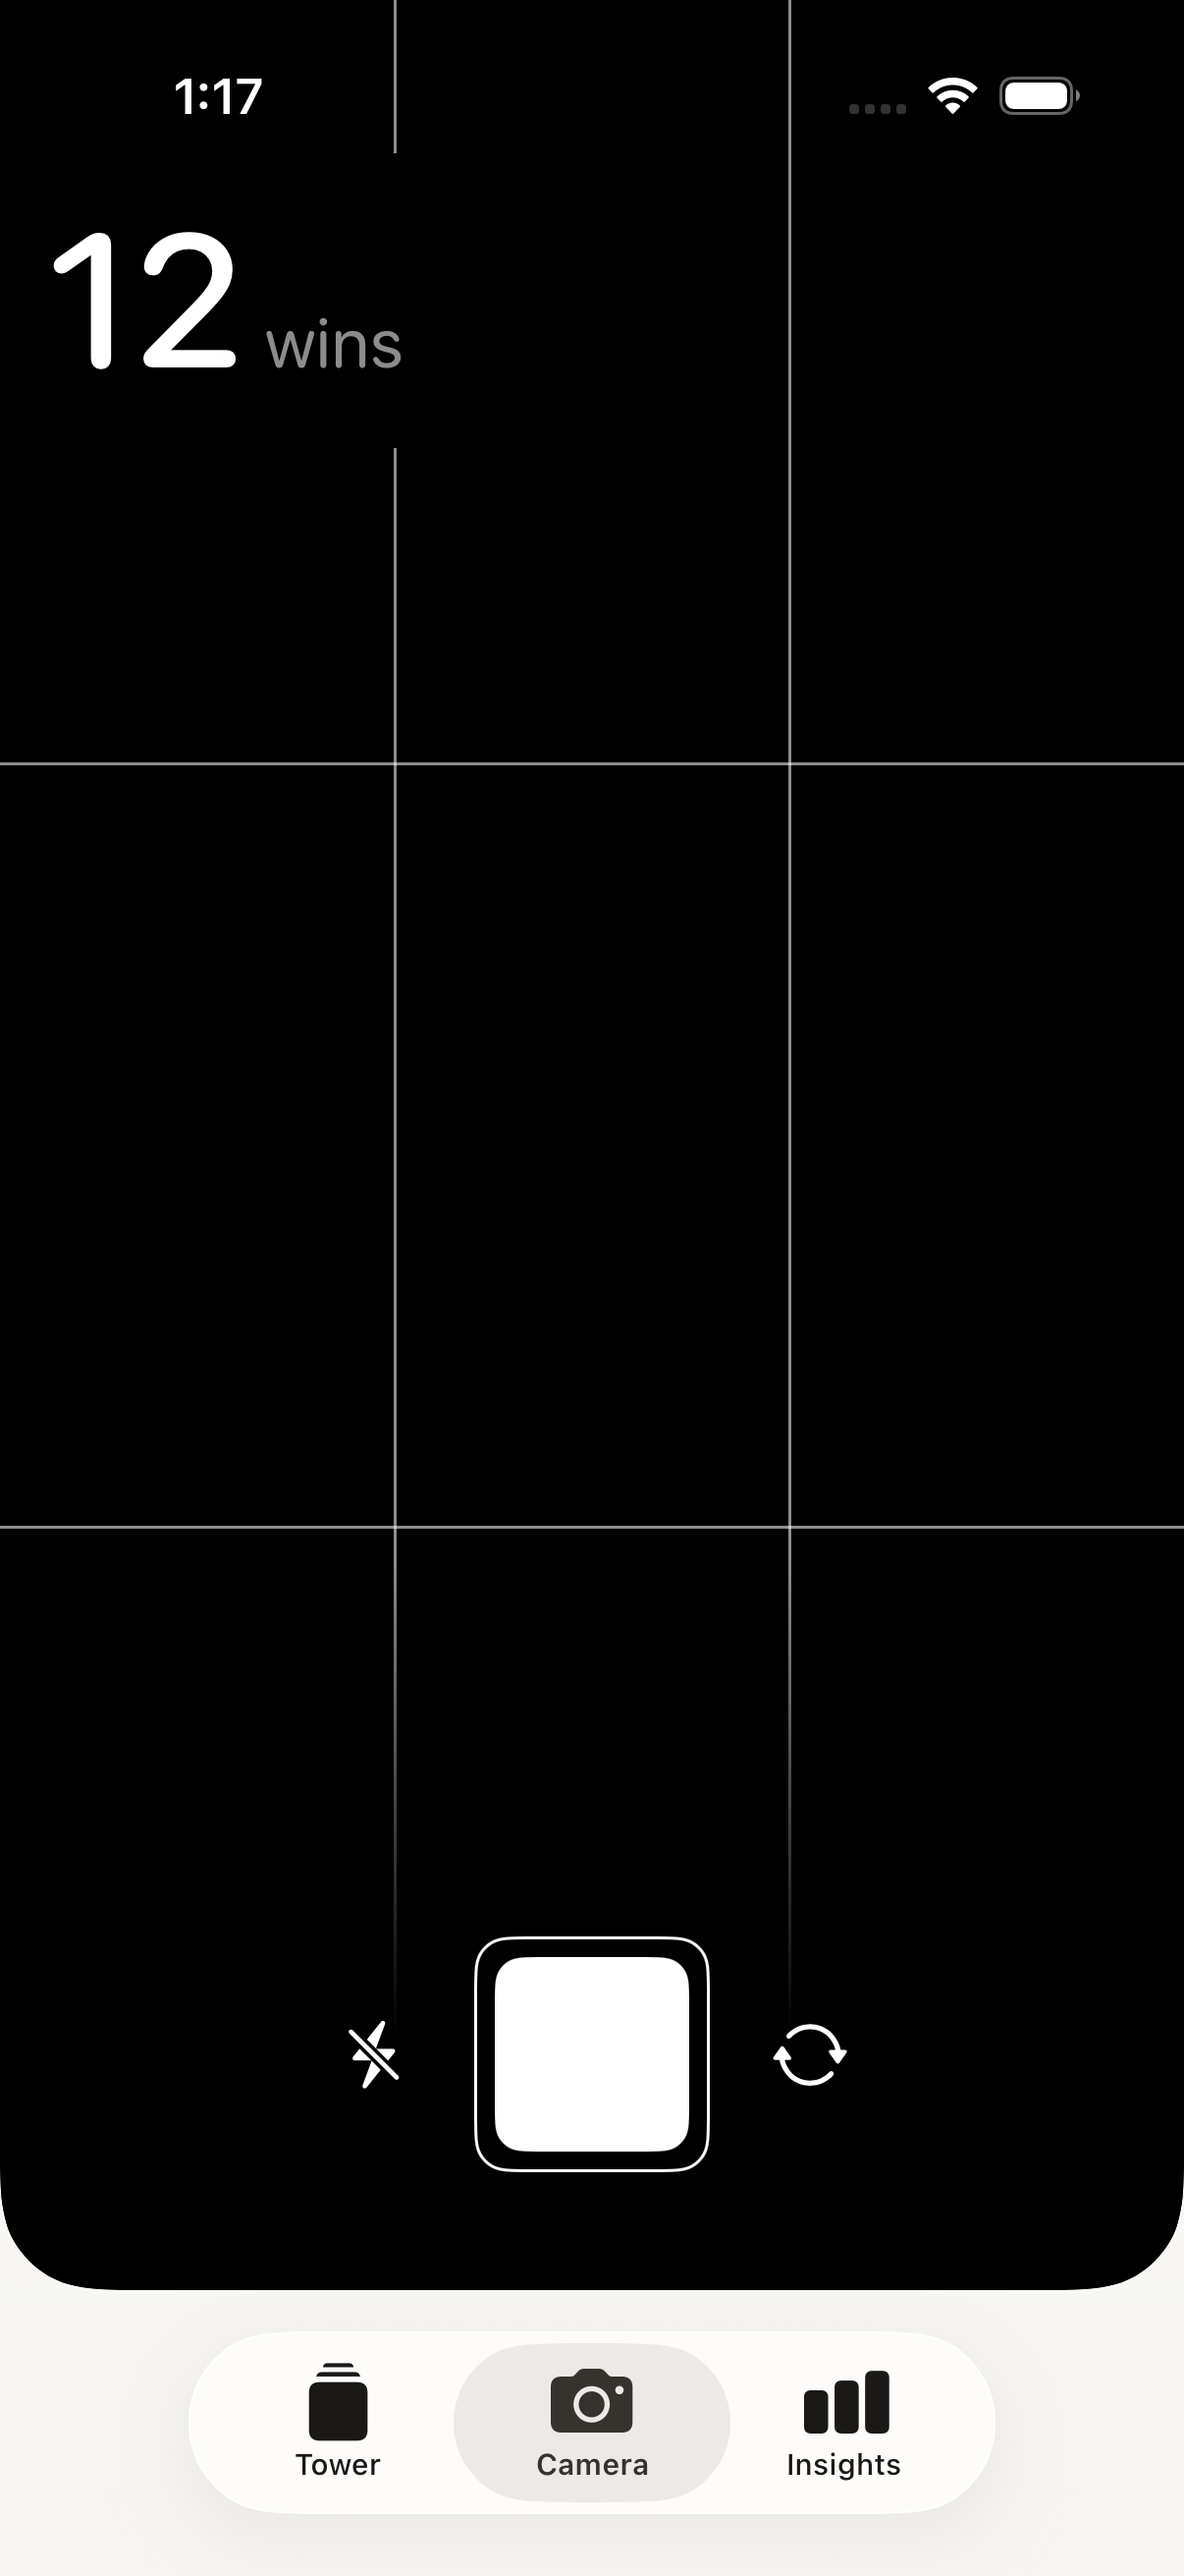
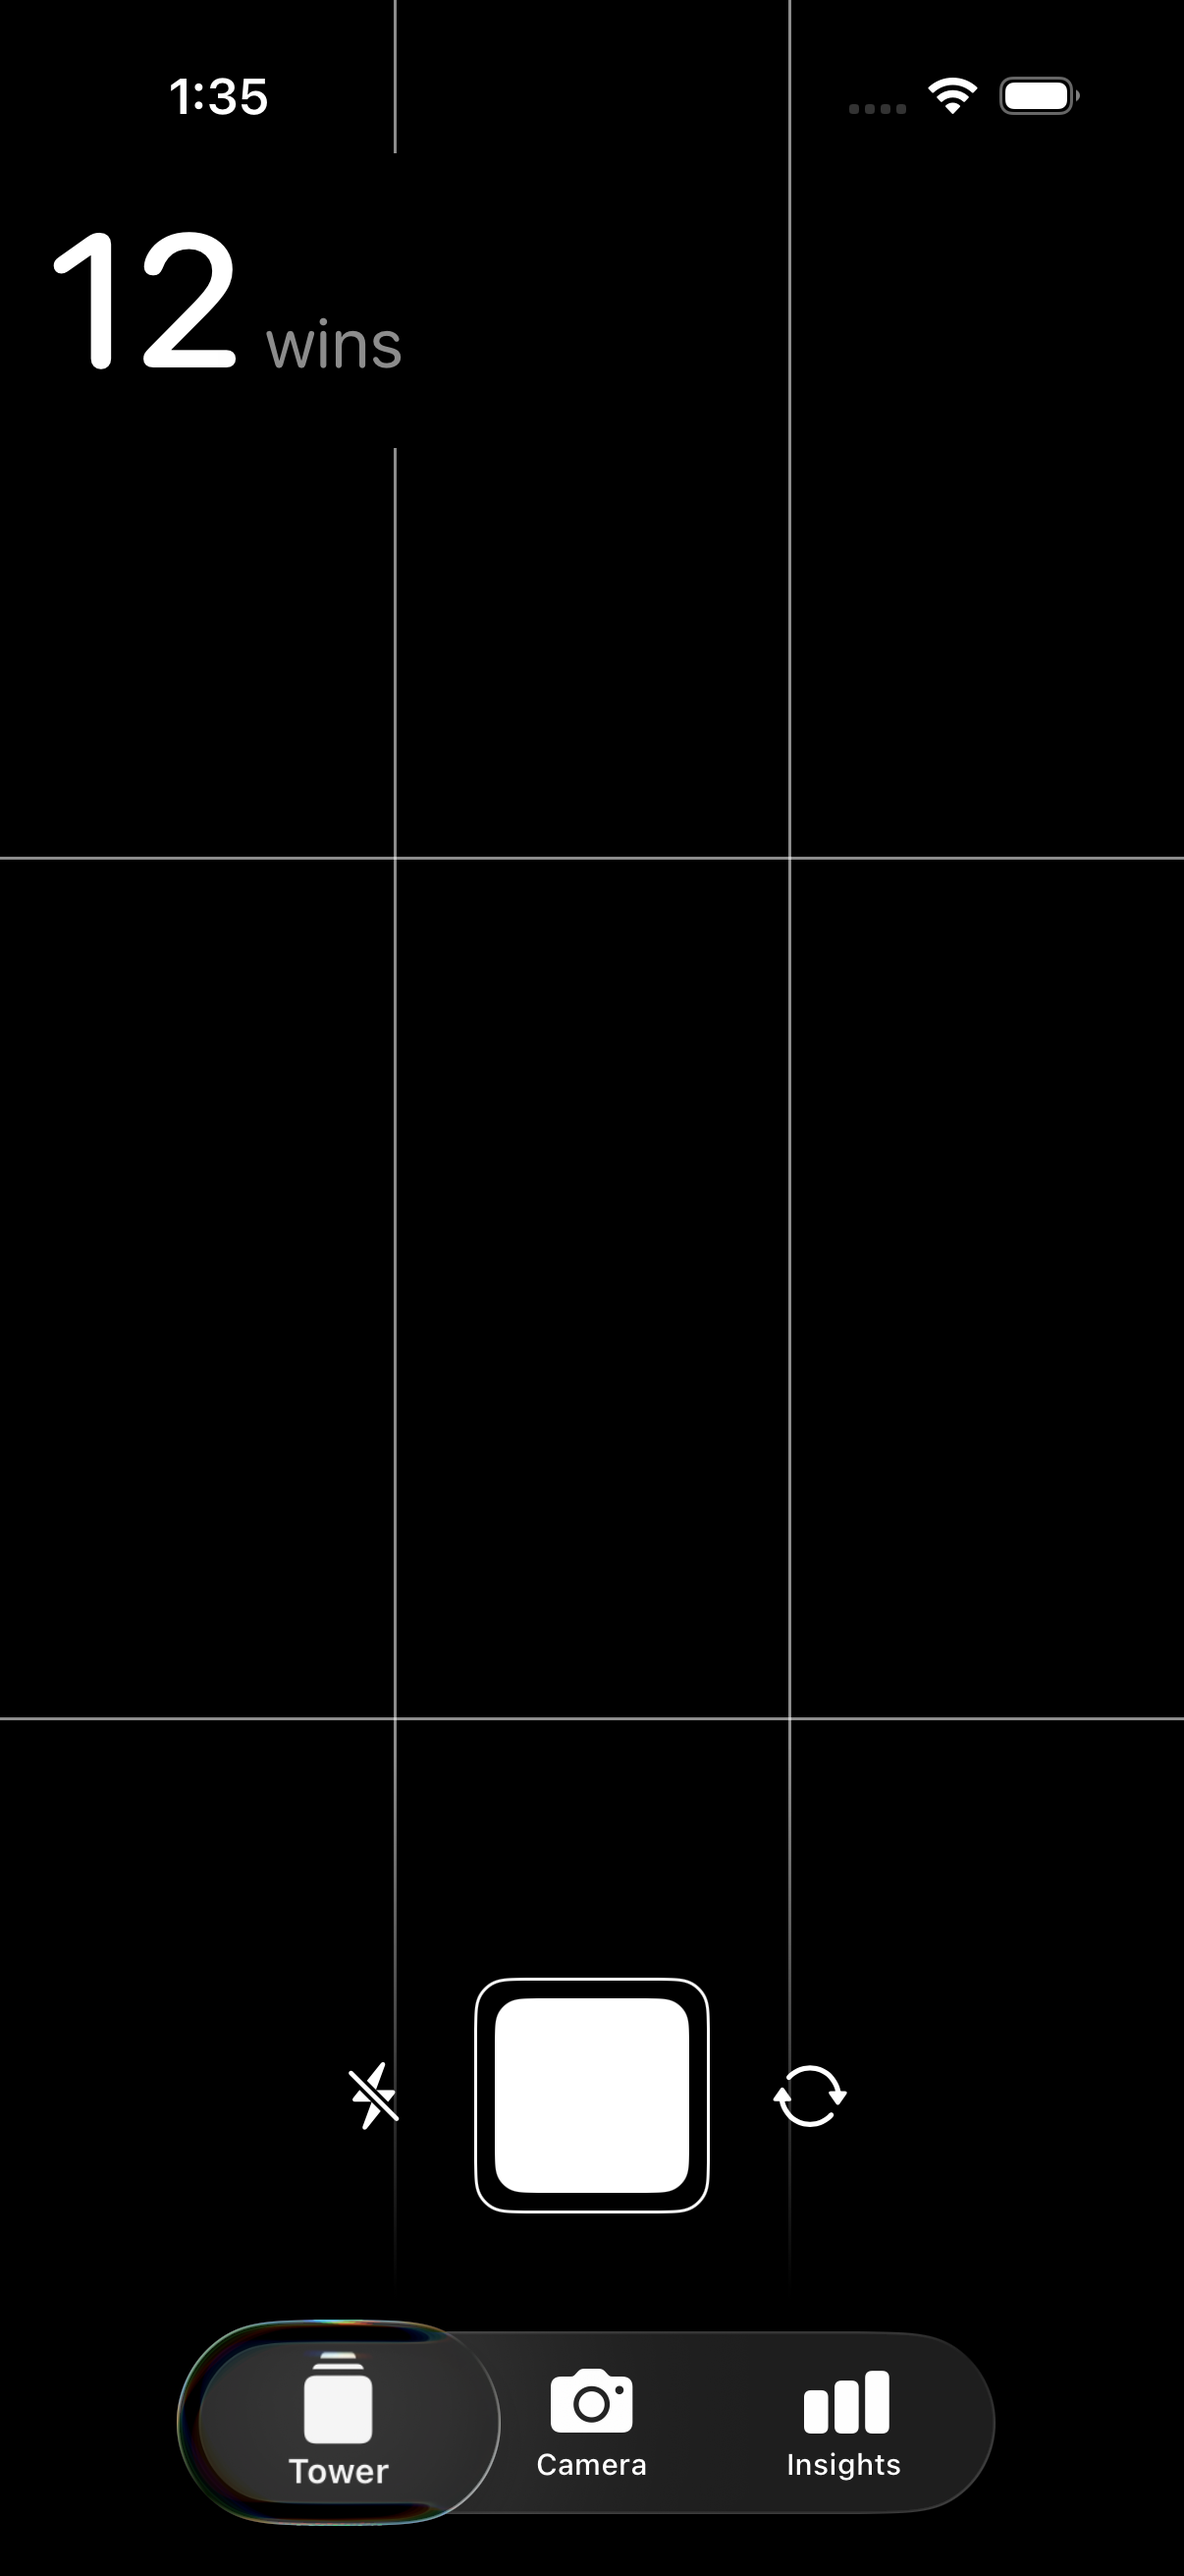
Black on light, white on dark, and one spring for a resize
**The invented accent is gone.** A single colour that had to work on
both grounds was the wrong idea: the best any one hue can manage against
the app's off-white AND the viewfinder's near-black is 4.33:1, and a hue
compromising for two grounds looks chosen for neither. `.primary` is the
ink of whichever ground it is on — maximum contrast on both, and the
same colour as the icons beside it, which is what "the highlight is the
icon colour" meant in the first place.

**The camera is edge to edge again**, in the tab as well as presented on
its own. The tab bar goes dark over it, and that is now correct rather
than a bug: the camera declares the dark scheme, so the bar's icons and
its highlight go white — which is what belongs on a black viewfinder. It
is the same reason the three attempts to force the bar light were the
wrong fight.

**Changing the size was two springs for one change.** The photo well
carried `.animation(slotSnap, value: size)` while the value itself was
set inside `withAnimation(motionSmooth)` — different rates AND different
damping, so the well resized at one speed while the button filled and
the sections below it moved at another. That is exactly what "everything
looks like it's moving separately" is. One transaction at the source now
covers the well, the fill and the reflow.

The same mistake, in the same shape, as the tower's next-slot: a view
that already changes inside a transaction does not get its own
`.animation` for the same value.

diff --git a/Strata/Views/CameraView.swift b/Strata/Views/CameraView.swift
@@ -91,18 +91,16 @@ struct CameraView: View {
     var body: some View {
         GeometryReader { geo in
             let topInset = geo.safeAreaInsets.top
-            // Presented on its own there is no tab bar to leave room for, so
-            // it takes the whole screen. In the tab it stops just above the
-            // bar — and that is not a preference, it is the only way the bar
-            // stays light.
+            // Edge to edge, both here and presented on its own.
             //
-            // The iOS 26 tab bar is Liquid Glass: it samples what is behind
-            // it, so a viewfinder running underneath turns it black and takes
-            // the selected item with it. Three ways to stop it were tried and
-            // none reaches that bar: `UITabBarAppearance` (the glass bar does
-            // not use the proxy), `toolbarColorScheme(.light, for: .tabBar)`,
-            // and `toolbarBackground(_:for: .tabBar)` with `.visible`. Not
-            // putting black behind it is what is left.
+            // The tab bar goes dark over it — it is Liquid Glass and samples
+            // what is behind it, and three ways to stop that were tried and
+            // none reaches it (`UITabBarAppearance`,
+            // `toolbarColorScheme(_:for: .tabBar)`, and
+            // `toolbarBackground(_:for: .tabBar)`). That is fine now rather
+            // than a bug: the camera declares the dark scheme, so the bar's
+            // icons and its highlight go white, which is what belongs on a
+            // black viewfinder anyway.
             //
             // Without this the modal camera drew to the top of the home
             // indicator and left a stray light strip below itself with the

diff --git a/Strata/Views/AddWinSheet.swift b/Strata/Views/AddWinSheet.swift
@@ -226,8 +226,16 @@ struct AddWinSheet: View {
             // Grows from the top left, where a block is anchored, so the
             // change reads as the block getting bigger rather than as the box
             // moving.
+            //
+            // No `.animation` here. Changing the size is ONE change and it has
+            // to be one animation: this modifier ran the well on `slotSnap`
+            // while the button's fill and everything the well pushes down the
+            // page ran on the `motionSmooth` of the `withAnimation` that set
+            // the value — two springs at different rates and different
+            // damping, which is exactly why the parts looked like they were
+            // moving separately. The transaction at the source now covers all
+            // of it.
             .frame(maxWidth: .infinity, alignment: .leading)
-            .animation(GridConstants.slotSnap, value: size)
         }
         .buttonStyle(.plain)
         .accessibilityLabel(photo == nil ? "Add a photo" : "Replace the photo")
@@ -273,7 +281,10 @@ struct AddWinSheet: View {
                 let isSelected = size == option
                 Button {
                     HapticsEngine.tick()
-                    withAnimation(GridConstants.motionSmooth) { size = option }
+                    // One transaction for the whole change: the well
+                    // resizes, the sections below it move up or down, and
+                    // this button fills — all on the same spring.
+                    withAnimation(GridConstants.slotSnap) { size = option }
                 } label: {
                     Text(option.effortLabel)
                         .font(Typography.bodySmall)

diff --git a/Strata/Views/MainAppView.swift b/Strata/Views/MainAppView.swift
@@ -446,13 +446,16 @@ struct MainAppView: View {
                 .preferredColorScheme(.light)
             }
         }
-        // One highlight colour, on light and on dark.
+        // Black on light, white on dark.
         //
-        // It was `.primary`, which resolves differently on each ground — so
-        // the selected item was one colour on the tower and another on the
-        // camera, and read as two different controls. See `accentEither` for
-        // why 4.33:1 on both is the ceiling.
-        .tint(AppColors.accentEither)
+        // A single fixed colour was tried and it is worse: the best any one
+        // colour can manage against BOTH the app's off-white and the
+        // viewfinder's near-black is 4.33:1, and a hue that compromises for
+        // two grounds looks chosen for neither. `.primary` is simply the ink
+        // of whichever ground it is on — maximum contrast on both, and the
+        // same colour as the icons beside it, which is what "the highlight is
+        // the icon colour" meant.
+        .tint(.primary)
         .modifier(TabBarCollapseModifier())
         .onChange(of: selectedTab) { _, newTab in
             HapticsEngine.tick()
@@ -593,7 +596,8 @@ struct MainAppView: View {
                 logWin(size: .small, photo: image)
                 selectedTab = .tower
             },
-            winCount: towerVM.placedBlocks.count
+            winCount: towerVM.placedBlocks.count,
+            fillsScreen: true
         )
     }
 

diff --git a/Strata/Models/CategoryColors.swift b/Strata/Models/CategoryColors.swift
@@ -109,24 +109,6 @@ enum AppColors {
     static let accentWarm = Color(hex: 0x403D39)
     static let accentPurple = Color(hex: 0xA689FA)
 
-    /// The one highlight colour, on light and on dark.
-    ///
-    /// The tab bar is light on most screens and dark on the camera, and a
-    /// highlight that has to change with it is a highlight you have to think
-    /// about — it was `.primary`, which meant the selected item was a
-    /// different colour on different tabs and read as two different controls.
-    ///
-    /// **4.5:1 on both grounds is impossible, and this is the proof.** To
-    /// clear 4.5 against the app's off-white a colour needs luminance ≤ 0.168;
-    /// to clear it against the viewfinder's near-black it needs ≥ 0.186. The
-    /// windows do not overlap, so no colour exists that does both.
-    ///
-    /// The best any colour can do is sit at the geometric mean of the two
-    /// grounds — L = 0.177 — which gives exactly 4.33:1 against each. That is
-    /// what this is. It clears WCAG 1.4.11's 3:1 for interface components on
-    /// both with room to spare, and falls a little short of the 4.5:1 body-text
-    /// bar, which no colour could have met here.
-    static let accentEither = Color(hex: 0xAD6135)
     static let healthGreen = Color(hex: 0x34C48B)
     static let warmRed = Color(hex: 0xE85D4A)
     /// Ghost block background for incomplete timeline habits (light mode) — 12% luminance contrast to warm background (WCAG AA)
